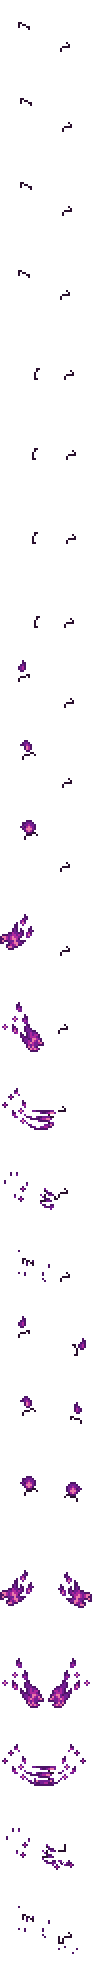
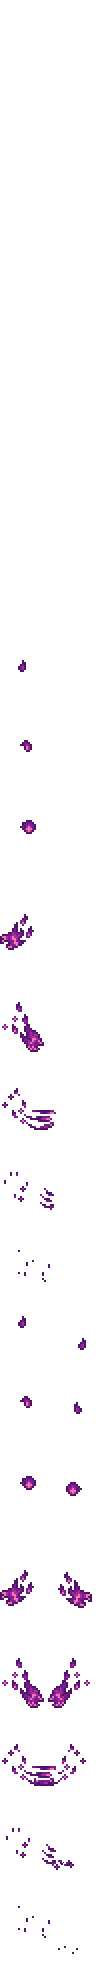
More shen tweaks

Changed region(s): [[0.3438, 0.217, 0.375, 0.279], [0.7812, 0.6819, 0.8125, 0.7129]]

diff --git a/NPCs/Bosses/Shen/ShenBreath.cs b/NPCs/Bosses/Shen/ShenBreath.cs
@@ -46,11 +46,11 @@ namespace AAMod.NPCs.Bosses.Shen
                     num296 = 0.75f;
                 }
                 projectile.ai[0] += 1f;
-                int num297 = Main.rand.Next(2) == 0 ? mod.DustType<Dusts.AkumaADust>() : mod.DustType<Dusts.YamataADust>();
                 if (Main.rand.Next(2) == 0)
                 {
-                    for (int num298 = 0; num298 < 4; num298++)
+                    for (int num298 = 0; num298 < 8; num298++)
                     {
+                        int num297 = Main.rand.Next(2) == 0 ? mod.DustType<Dusts.AkumaADust>() : mod.DustType<Dusts.YamataADust>();
                         int num299 = Dust.NewDust(new Vector2(projectile.position.X, projectile.position.Y), projectile.width, projectile.height, num297, projectile.velocity.X * 0.2f, projectile.velocity.Y * 0.2f, 100, default(Color), 1f);
                         if (Main.rand.Next(3) == 0)
                         {
@@ -63,9 +63,9 @@ namespace AAMod.NPCs.Bosses.Shen
                         }
                         Main.dust[num299].scale *= 1f;
                         Dust expr_DDE2_cp_0 = Main.dust[num299];
-                        expr_DDE2_cp_0.velocity.X = expr_DDE2_cp_0.velocity.X * 1.2f;
+                        expr_DDE2_cp_0.velocity.X *= 1.2f;
                         Dust expr_DE02_cp_0 = Main.dust[num299];
-                        expr_DE02_cp_0.velocity.Y = expr_DE02_cp_0.velocity.Y * 1.2f;
+                        expr_DE02_cp_0.velocity.Y *= 1.2f;
                         Main.dust[num299].scale *= num296;
                         Main.dust[num299].velocity += projectile.velocity;
                         if (!Main.dust[num299].noGravity)

diff --git a/NPCs/Bosses/Shen/DiscordianFlare.cs b/NPCs/Bosses/Shen/DiscordianFlare.cs
@@ -11,7 +11,7 @@ namespace AAMod.NPCs.Bosses.Shen
     	public override void SetStaticDefaults()
 		{
 			DisplayName.SetDefault("Discordian Flare");
-            Main.projFrames[projectile.type] = 4;
+            Main.projFrames[projectile.type] = 5;
 		}
     	
         public override void SetDefaults()
@@ -33,7 +33,17 @@ namespace AAMod.NPCs.Bosses.Shen
         public override void AI()
         {
         	Lighting.AddLight(projectile.Center, ((255 - projectile.alpha) * 0.9f) / 255f, ((255 - projectile.alpha) * 0f) / 255f, ((255 - projectile.alpha) * 0.9f) / 255f);
-        	projectile.rotation = (float)Math.Atan2((double)projectile.velocity.Y, (double)projectile.velocity.X) + 1.57f;
+            projectile.frameCounter++;
+            if (projectile.frameCounter > 6)
+            {
+                projectile.frame++;
+                projectile.frameCounter = 0;
+                if (projectile.frame > 4)
+                {
+                    projectile.frame = 0;
+                }
+            }
+            projectile.rotation = (float)Math.Atan2((double)projectile.velocity.Y, (double)projectile.velocity.X) + 1.57f;
         	if (projectile.ai[1] == 0f)
 			{
 				projectile.ai[1] = 1f;
@@ -57,7 +67,7 @@ namespace AAMod.NPCs.Bosses.Shen
             }
             const int aislotHomingCooldown = 0;
             const int homingDelay = 30;
-            const float desiredFlySpeedInPixelsPerFrame = 10;
+            const float desiredFlySpeedInPixelsPerFrame = 8;
             const float amountOfFramesToLerpBy = 20;
 
             projectile.ai[aislotHomingCooldown]++;

diff --git a/Globals/AAModGlobalNPC.cs b/Globals/AAModGlobalNPC.cs
@@ -84,13 +84,10 @@ namespace AAMod
         public override void UpdateLifeRegen(NPC npc, ref int damage)
         {
             int before = npc.lifeRegen;
-            bool drain = false;
-            bool noDamage = damage <= 1;
             int damageBefore = damage;
 
             if (infinityOverload)
             {
-                drain = true;
                 if (npc.lifeRegen > 0)
                 {
                     npc.lifeRegen = 0;
@@ -104,7 +101,6 @@ namespace AAMod
 
             if (InfinityScorch)
             {
-                drain = true;
                 if (npc.lifeRegen > 0)
                 {
                     npc.lifeRegen = 0;
@@ -152,10 +148,6 @@ namespace AAMod
                 RiftTimer = 0;
             }
 
-            if (noDamage)
-                damage -= damageBefore;
-            if (drain && before > 0)
-                npc.lifeRegen -= before;
             if (terraBlaze)
             {
                 if (npc.lifeRegen > 0)

diff --git a/NPCs/Bosses/Shen/FuryAshe.cs b/NPCs/Bosses/Shen/FuryAshe.cs
@@ -647,12 +647,6 @@ namespace AAMod.NPCs.Bosses.Shen
             BaseDrawing.DrawTexture(spritebatch, glowTex, purple, npc.position, npc.width, npc.height, npc.scale, npc.rotation, npc.direction, 24, npc.frame, Color.White, true);
             BaseDrawing.DrawTexture(spritebatch, eyeTex, blue, npc.position, npc.width, npc.height, npc.scale, npc.rotation, npc.direction, 24, npc.frame, Color.White, true);
 
-
-            if (NPC.AnyNPCs(mod.NPCType<AsheOrbiter>()))
-            {
-                BaseDrawing.DrawAfterimage(spritebatch, eyeTex, 0, npc, .5f, 1f, 7, false, 0f, 0f, Color.DeepSkyBlue);
-            }
-
             if (scale > 0)
             {
                 BaseDrawing.DrawTexture(spritebatch, Barrier, purple, npc.position, npc.width, npc.height, scale2, -RingRotation2, 0, 1, BarrierFrame, dColor, true);

diff --git a/NPCs/Bosses/Shen/ShenABreath.cs b/NPCs/Bosses/Shen/ShenABreath.cs
@@ -49,7 +49,7 @@ namespace AAMod.NPCs.Bosses.Shen
                 int num297 = mod.DustType<Dusts.Discord>();
                 if (Main.rand.Next(2) == 0)
                 {
-                    for (int num298 = 0; num298 < 4; num298++)
+                    for (int num298 = 0; num298 < 8; num298++)
                     {
                         int num299 = Dust.NewDust(new Vector2(projectile.position.X, projectile.position.Y), projectile.width, projectile.height, num297, projectile.velocity.X * 0.2f, projectile.velocity.Y * 0.2f, 100, default(Color), 1f);
                         if (Main.rand.Next(3) == 0)
